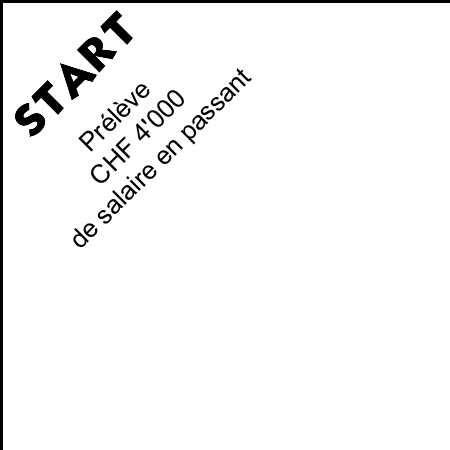
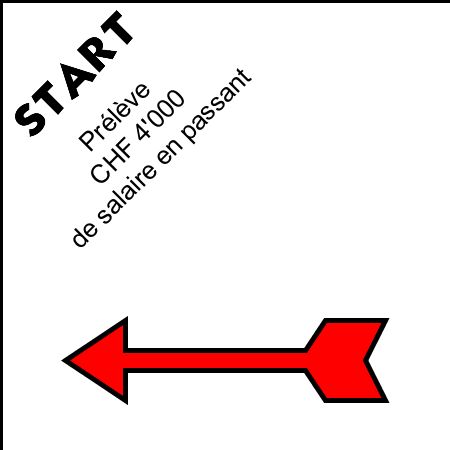
Finished start square

Changed region(s): [[0.1244, 0.6844, 0.8711, 0.9022]]

diff --git a/src/ch/maystre/gilbert/custopoly/graphics/boardmisc/StartSquare.java b/src/ch/maystre/gilbert/custopoly/graphics/boardmisc/StartSquare.java
@@ -24,6 +24,8 @@ public class StartSquare extends Square {
     private static final int TEXT_HEIGHT = 100;
     private static final int TEXT_WIDTH = 300;
 
+    private static final int MARGIN_BOTTOM_ARROW = 50;
+
     //endregion
 
     @Override
@@ -50,9 +52,32 @@ public class StartSquare extends Square {
         adjustFont(false, 26);
         drawLinesSmart("Prélève\\n" + formatAmount(4000) + "\\nde salaire en passant", textBox);
 
-        g.setTransform(original);
-
         /* 3: arrow */
+        Polygon arrow = new Polygon();
+        arrow.addPoint(60, 80);
+        arrow.addPoint(0, 40);
+        arrow.addPoint(60, 0);
+        arrow.addPoint(60, 30);
+        arrow.addPoint(240, 30);
+        arrow.addPoint(260, 0);
+        arrow.addPoint(320, 0);
+        arrow.addPoint(300, 40);
+        arrow.addPoint(320, 80);
+        arrow.addPoint(260, 80);
+        arrow.addPoint(240, 50);
+        arrow.addPoint(60,50);
+
+        Rectangle2D bounds = arrow.getBounds2D();
+        double topY = HEIGHT - bounds.getHeight() - MARGIN_BOTTOM_ARROW;
+        double topX = (WIDTH - bounds.getWidth()) / 2;
+        arrow.translate((int) topX, (int) topY);
+
+        g.setTransform(original);
+        g.setStroke(new BasicStroke(5));
+        g.setColor(Color.RED);
+        g.fill(arrow);
+        g.setColor(Color.BLACK);
+        g.draw(arrow);
 
         return image;
     }
